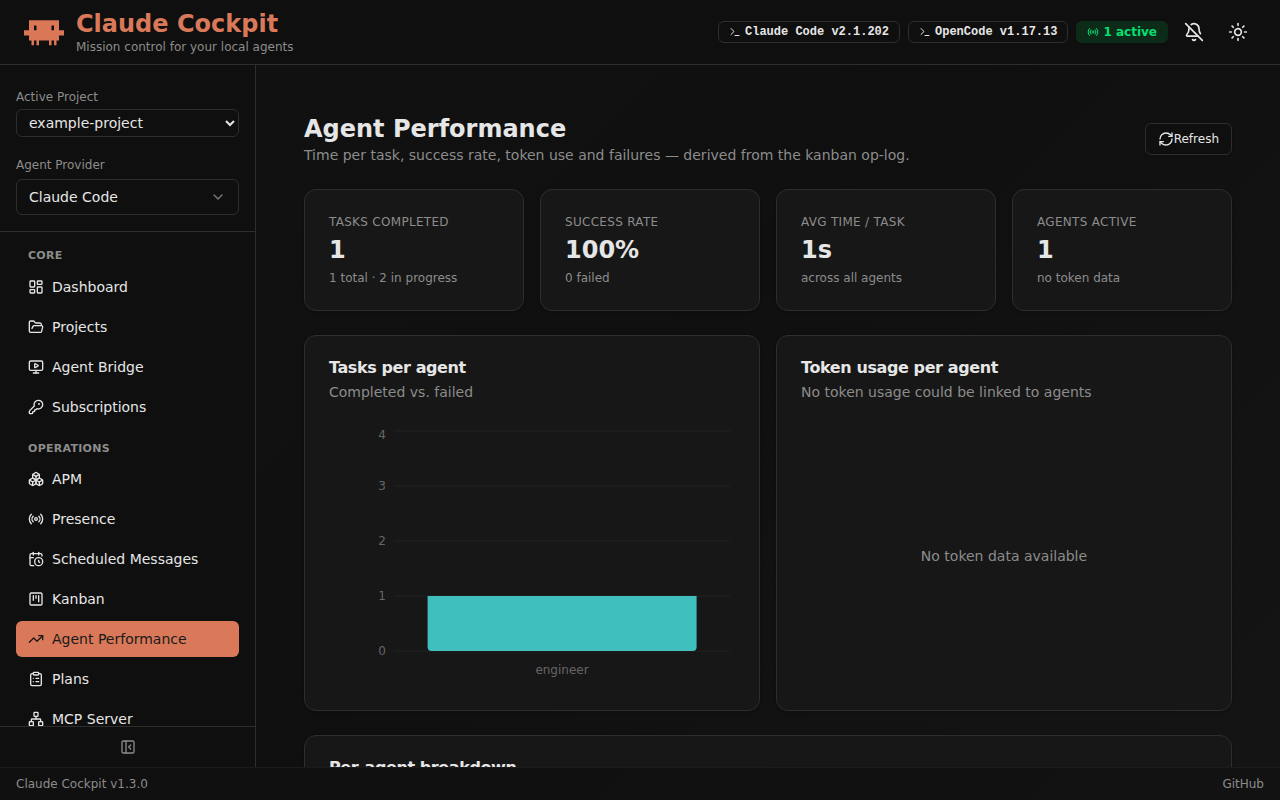
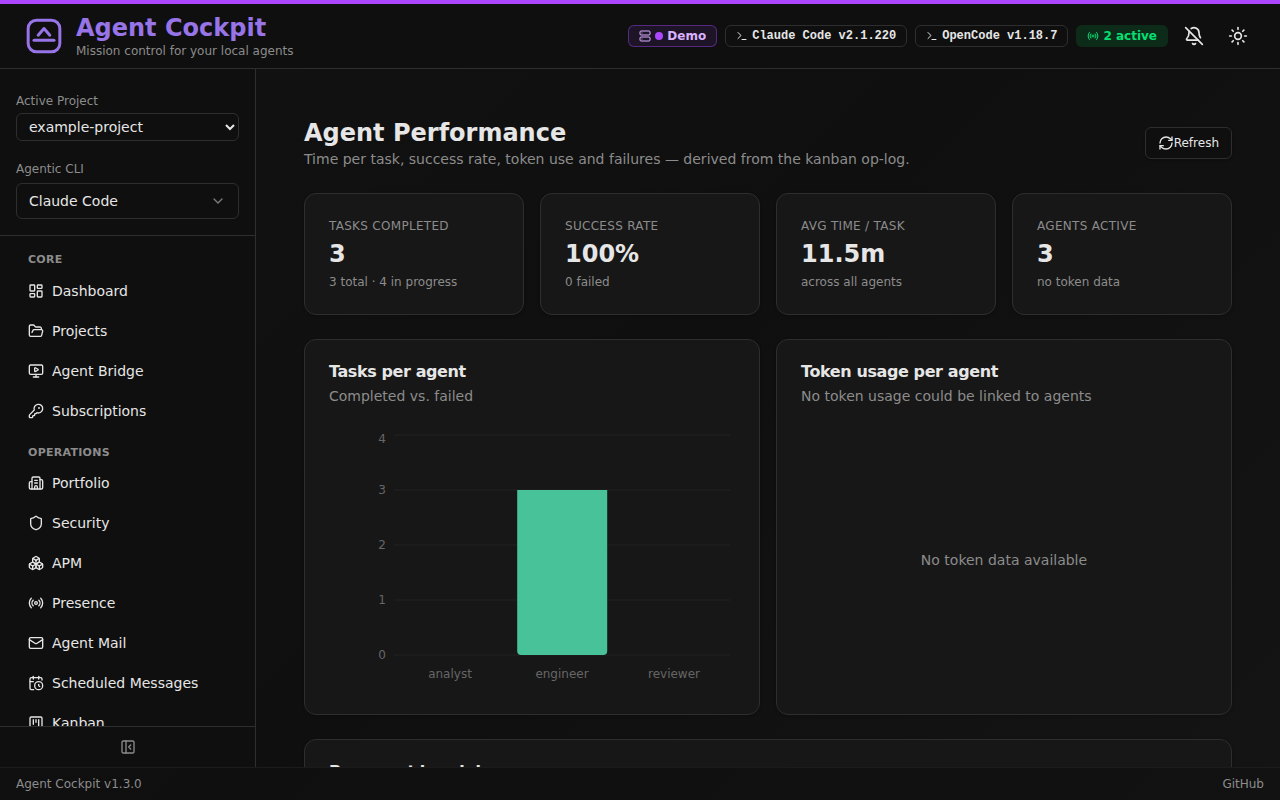
docs(readme): rewrite for current functionality and refresh all screenshots
The README still described the app as a claude-deck fork with scheduled
messages, and its feature list predated nine shipped pages (Portfolio,
Security Profile, Subscriptions, Agent Mail, Blueprints, APM, MCP Server,
Hosts, Updates) and three additional agent CLIs (OpenCode, Copilot CLI,
MiMoCode). The screenshots were 147 frontend commits old and every one of
them showed a stale sidebar.

- Lead with what the app actually is now: an agent work loop (kanban
  dispatch, multi-agent decomposition, Agent Mail) plus a control panel
  for the agent CLIs.
- Group the feature list the way the navigation does (running work /
  overview and control / per-CLI), covering every page that exists.
- Add a supported-CLI table sourced from the capability matrix in
  backend/app/services/agentic_cli/capabilities.py.
- Replace the stale 'What's New' section, and document the two-SQLite-
  store split and the project .claude/agents -> kanban column link.
- Recapture all 16 gallery screenshots plus both hero images (1280x800,
  current v1.3.0 UI) against an isolated instance with a throwaway HOME,
  a throwaway tmux server and sanitized demo data, matching the
  convention set by f2b2153. Drops codex-config.png and sandcastle.png,
  adds portfolio, agent-mail, security, blueprints and config.

diff --git a/README.md b/README.md
@@ -9,111 +9,142 @@
   <img alt="Agent Cockpit dashboard" src="cockpit-rebrand-light.png">
 </picture>
 
-A self-hosted web application for visualizing and managing local AI coding agents. Provides a unified interface for Claude Code configuration, Codex CLI configuration, MCP servers, plugins, slash commands, hooks, agents, permissions, usage tracking, session transcripts, Agent Bridge, and other local agent extensions.
+A self-hosted web application for running and managing local AI coding agents. Two things live in one app:
+
+1. **An agent work loop.** A kanban board where cards are dispatched to real agent sessions — the dispatcher claims a card, spawns an agent in its own git worktree, and the card moves across the board as the agent works, hands off, gets blocked, or ships. Larger cards can be split by an analyst agent into child cards with a dependency graph, and sessions can message each other through Agent Mail.
+2. **A control panel for the agent CLIs themselves.** Configuration, MCP servers, plugins, slash commands, hooks, agents, skills, permissions, transcripts, usage and backups for Claude Code, Codex CLI, OpenCode, GitHub Copilot CLI and MiMoCode — reading and writing the same files those CLIs use.
+
+Everything runs on your machine, against your real config files. No account, no cloud, no telemetry.
 
 ## Credits — Forked from claude-deck
 
-Agent Cockpit is a fork of [**claude-deck**](https://github.com/adrirubio/claude-deck) by Adrian Rubio-Punal and Juan A. Rubio, used under the MIT License. Their original copyright and license are retained in [`LICENSE`](./LICENSE). Agent Cockpit adds a scheduled-messages feature (timer/cron → tmux injection) on top of their work.
+Agent Cockpit is a fork of [**claude-deck**](https://github.com/adrirubio/claude-deck) by Adrian Rubio-Punal and Juan A. Rubio, used under the MIT License. Their original copyright and license are retained in [`LICENSE`](./LICENSE). claude-deck contributed the configuration, MCP, sessions, usage and Agent Bridge surfaces; Agent Cockpit adds the kanban dispatch loop, multi-agent decomposition, Agent Mail, scheduled messages, sandboxed runs, and the multi-CLI provider layer on top.
 
 ## Why This Exists
 
 Claude Code starts simple, then slowly sprawls across config files and directories: `~/.claude.json`, `~/.claude/settings.json`, `.mcp.json`, slash commands, agents, skills, project settings, transcripts, and usage data. That works fine at small scale, but once your setup gets serious it becomes hard to see the whole picture, change things confidently, or understand what is actually configured.
 
-Agent Cockpit gives you one local interface for that sprawl. It also has provider-aware Codex CLI support for tmux sessions, safe TOML configuration, feature flags, diagnostics, MCP/plugin inventory and supported CLI-backed mutations, and redacted export-only backups.
+Running *several* agents at once adds a second problem on top of that one: which session is working on what, which one is stuck waiting for a human, what has already shipped, and what is blocked on something else. Terminal multiplexers answer none of that.
+
+Agent Cockpit is one local interface for both — the configuration sprawl and the work in flight.
 
 ## Best For
 
-Agent Cockpit is best for people running multiple Claude Code or Codex CLI sessions, MCP servers, custom commands, hooks, agents, or tracking Claude Code usage across sessions.
+People running multiple concurrent agent sessions, or a serious Claude Code / Codex CLI setup: several MCP servers, custom commands, hooks, agents, skills, and usage worth keeping an eye on.
 
-If you only use Claude Code casually with mostly default config, Agent Cockpit may be overkill.
+If you use one agent casually with mostly default config, Agent Cockpit is overkill.
 
 ## Trust Model
 
 - **Local only** — no cloud
 - **No account** — nothing to sign up for
 - **No telemetry** — no usage tracking sent anywhere
-- **Works with your real files** — reads and writes existing Claude Code and Codex config files
+- **Works with your real files** — reads and writes existing agent configuration files
 
 > [!WARNING]
-> Agent Cockpit reads and writes your real local agent configuration files. Changes made in the UI affect the files Claude Code and Codex CLI actually use. Review changes carefully, and create a backup before major edits.
+> Agent Cockpit reads and writes your real local agent configuration files, and it can spawn agent sessions that write to your repositories. Changes made in the UI affect the files Claude Code and the other CLIs actually use. Review changes carefully, and create a backup before major edits.
 
 ## Features
 
-- **Dashboard** — Overview of local agent configuration with Claude Code context window visualizer
-- **Provider Switcher** — Move between Claude Code and Codex CLI surfaces without leaving the app
-- **Config Editor** — Browse, inspect, and edit Claude Code JSON settings or Codex TOML settings, including Codex profiles, runtime options, and feature flags
-- **MCP Servers** — Add, edit, test, and manage MCP server connections with OAuth support. Browse and install servers from the [MCP Registry](https://registry.modelcontextprotocol.io). View tools, resources, and prompts. Supports stdio, HTTP, and SSE transports
-- **Slash Commands** — Browse, create, and edit custom commands (user and project scope)
-- **Plugins** — Browse installed plugins with detail views and enable/disable toggles; Codex plugins support CLI-backed inventory, install, and remove where the installed Codex CLI exposes safe commands
-- **Hooks** — Configure automation hooks by event type (PreToolUse, PostToolUse, etc.)
-- **Permissions** — Visual allow/deny rule builder for tool access control
-- **Agents** — Create and manage custom agent configurations
-- **Skills** — Browse installed skills and discover new ones from [skills.sh](https://skills.sh)
-- **Memory** — View and edit Claude Code memory files
-- **Output Styles** — Configure response output formats
-- **Status Line** — Customize Claude Code status line display
-- **Agent Bridge** — Discover and monitor Claude Code and Codex CLI sessions running in tmux. Attach up to 4 terminals simultaneously in a 2x2 grid with independent read-only/interactive modes, fullscreen toggle, and per-pane controls. Spawn new sessions and manage provider-specific options directly from the UI
-- **Session Transcripts** — View conversation history with full message details and tool use
-- **Usage Tracking** — Monitor token usage, costs, and billing blocks with daily/monthly charts
-- **Plan History** — Browse and review Claude Code implementation plans
-- **Backup & Restore** — Create and manage Claude Code backups with selective restore, plus redacted export-only Codex backups
-- **Projects** — Discover and manage project directories
-- **Sandcastle** — Run AI coding agents in isolated sandboxes (Docker, Podman, Vercel) with [sandcastle](https://github.com/mattpocock/sandcastle). Supports parallel execution, kanban integration, scheduled messages, and real-time log streaming
-- **Kanban** — Dispatch work to Claude Code/Codex agents from a kanban board; cards move through columns as agents claim, work, and hand them off, with per-agent performance stats
-- **Scheduled Messages** — Schedule a message for future delivery into a running (or resumable) tmux session, including auto-resume when a session hits its rate limit
-- **Context** — Visualize a session's context window usage over time, including cache efficiency and content breakdown
-- **Presence** — See which tmux panes are active across your agent sessions at a glance
-- **Agent Performance (APM)** — Track per-agent throughput and reliability over time
+### Running work
 
-## What's New for the Next Release
+- **Kanban** — The board that drives the work loop. It has a fixed set of columns — `intake`, `Backlog`, `Impediment`, `Awaiting Subtasks`, `Done` and `To Resume` — plus one column per agent, generated from the project's `.claude/agents/`. Auto-dispatch is opt-in per project: the poller claims a `Backlog` card, moves it into the target agent's column, and spawns that agent in a fresh git worktree. A card carries its own comments, deliverables (PR / branch / commit / link / note), labels, priority, work type, dependencies on other cards, and per-card model, provider or transport overrides. A blocked agent posts an impediment with a concrete question and candidate answers for a human to pick from.
+- **Multi-agent decomposition** — A card that is too big for one session goes to an analyst agent, which splits it into child cards with an explicit dependency DAG and attaches the plan. Executor sessions only start once their dependencies are `Done`.
+- **Agent Mail** — A mailbox between sessions. Each repository gets a durable identity; sessions send structured context requests, handoffs, broadcasts and answers, and a session that is asleep in tmux can be woken to read its inbox. The UI shows participants, roles, charters, inbox load and every pending request.
+- **Agent Bridge** — Discover and observe agent sessions running in tmux, per CLI. Attach up to 4 terminals at once in a 2x2 grid, each independently read-only or interactive, with fullscreen, per-pane controls, and spawn / resume / fork / kill from the UI.
+- **Presence** — A live feed of what each session is doing right now, fed by the agent CLI's hooks: current tool, last narrative line, changed files, and which sessions are waiting on your input.
+- **Scheduled Messages** — Queue a message for future delivery into a running (or resumable) session, as a one-shot timer or a recurring cron expression, with a choice of permission mode and what to do when the session is missing or busy. Includes auto-resume when a session hits its rate limit.
+- **Sandcastle** — Run agents in isolated Docker or Podman containers via [sandcastle](https://github.com/mattpocock/sandcastle), with parallel runs, kanban integration and live log streaming.
+- **Hosts** — Register remote machines over SSH and run agent sessions on them instead of locally.
 
-Codex CLI support has moved from experimental plumbing to a usable provider surface:
+### Overview and control
 
-- Provider-aware Agent Bridge can discover, spawn, resume, fork, attach to, and kill Codex tmux sessions.
-- The Codex config editor now handles safe TOML settings, profiles, runtime controls, and feature flags from `codex features list`.
-- Codex settings include dropdowns for known enum values and help tooltips for settings and feature flags where official descriptions are available.
-- Codex MCP and plugin inventory are visible, with supported CLI-backed add/remove or install/remove actions.
-- Codex exports are redacted and export-only by design.
-- Project discovery is now easier from the UI, including directory browsing when adding projects.
+- **Dashboard** — Which agent CLIs are installed on this machine and what each one actually supports, as a per-capability matrix (read-only vs read/write), plus counts for projects, MCP servers, commands, plugins, hooks and permissions.
+- **Portfolio** — Kanban totals across every tracked project at once: backlog, in progress, impediments, cards finished in the last 24h, dispatch on/off, and last activity.
+- **Agent Performance** — Time per task, success rate, tasks completed per agent and common failure reasons, derived from the kanban operation log.
+- **Security Profile** — Per project: risk class, default transport (worktree or sandbox), whether permission prompts may be skipped, network egress policy with an allowlist, and resource quotas applied to sandboxed runs.
+- **Subscriptions** — Credentials and quota for launching sessions against alternate providers instead of the default vendor, with per-provider usage.
+- **Projects** — Discover, add and switch projects, including a directory browser; the active project scopes most other pages.
+- **Blueprints** — Version-pinned recipes that seed a new project's `.claude/` folder (settings, skills, agents, `CLAUDE.md`) so a new repository starts from a known-good baseline.
+- **MCP Server** — Agent Cockpit's own MCP endpoint, so agents can read and drive the board, sessions and scheduled messages as tools. Includes the client config snippet and token management.
+- **APM** — Per-project agent dependency management via an `apm.yml` manifest.
+- **Updates** — One-click self-update with preflight checks.
+- **Backup & Restore** — Create and manage backups with selective restore. Codex exports are redacted and export-only by design.
 
-Codex support is explicit about provider boundaries: usage/context parity and session transcript browsing are not supported for Codex yet; history and model-cache diagnostics avoid prompt text and raw cache payloads; Codex automatic restore is refused because exports intentionally exclude auth, history, cache, and local state.
+### Per-CLI configuration
+
+Which of these appear depends on the CLI selected in the sidebar and on what that CLI actually supports — the capability matrix drives the navigation, so unsupported surfaces are hidden rather than shown broken.
+
+- **Config** — Claude Code JSON settings across all five scopes (user, user-local, project, project-local, managed) with a form editor, a scope resolver that shows which file wins, and a raw viewer. For Codex: safe TOML settings, profiles, runtime options, and feature flags read from `codex features list`, with dropdowns for known enum values and tooltips where official descriptions exist.
+- **MCP Servers** — Add, edit, test and manage MCP connections over stdio, HTTP and SSE, with OAuth support, plus browse and install from the [MCP Registry](https://registry.modelcontextprotocol.io). Inspect the tools, resources and prompts a server exposes.
+- **Slash Commands** — Browse, create and edit custom commands at user and project scope.
+- **Plugins** — Browse installed plugins with detail views and enable/disable toggles. Codex plugins support CLI-backed inventory, install and remove where the installed Codex CLI exposes safe commands.
+- **Hooks** — Configure automation hooks per event type (PreToolUse, PostToolUse, Stop, Notification, SessionStart, …).
+- **Permissions / Trust** — Visual allow / ask / deny rule builder for tool access, plus the default permission mode.
+- **Agents** — Create and manage subagent definitions, including model and tool restrictions.
+- **Skills** — Browse installed skills and discover new ones from [skills.sh](https://skills.sh), with usage stats.
+- **Memory** — View and edit `CLAUDE.md` memory files at user and project scope.
+- **Output Styles** and **Status Line** — Configure response formatting and the CLI status line.
+- **Session Transcripts** — Browse conversation history per project with full message detail, tool calls and results.
+- **Usage Tracking** — Token usage, cost and billing blocks with daily, monthly, per-session and per-block views, plus JSON/CSV export.
+- **Context** — Context window usage per active session, including cache efficiency and what is filling the window.
+- **Plans** — Browse and review the implementation plans an agent has written.
+
+### Supported agent CLIs
+
+| CLI | Status |
+|-----|--------|
+| Claude Code | Full surface — config, sessions, MCP, plugins, permissions, commands, hooks, agents, skills, memory, output styles, status line, usage, context, backup |
+| Codex CLI | Config (TOML, profiles, feature flags), sessions, MCP and plugin inventory, redacted export-only backup. No transcript browsing or usage/context parity |
+| OpenCode | Config, sessions, MCP, plugins, agents, skills, memory, commands, usage |
+| GitHub Copilot CLI | Session discovery and spawning |
+| MiMoCode | Config, skills, memory |
+
+Codex support is explicit about its boundaries: history and model-cache diagnostics avoid prompt text and raw cache payloads, and automatic restore is refused because exports intentionally exclude auth, history, cache and local state.
 
 ## Screenshots
 
-| Dashboard | MCP Servers |
-|-----------|-------------|
-| ![Dashboard](screenshots/dashboard.png) | ![MCP Servers](screenshots/mcp-servers.png) |
-| High-level overview of your Claude Code setup | Manage MCP connections, status, and configuration |
+All screenshots are taken against a throwaway instance seeded with demo data (`example-project`, `demo-api`), not a real workspace.
 
-| Usage Tracking | Session Transcripts |
-|----------------|---------------------|
-| ![Usage Tracking](screenshots/usage-tracking.png) | ![Session Transcripts](screenshots/sessions.png) |
-| Cost visibility, charts, and billing blocks | Browse conversation history and tool usage details |
-
-| Agent Bridge | Skills |
+| Dashboard | Kanban |
 |-----------|--------|
-| ![Agent Bridge](screenshots/cc-bridge.png) | ![Skills](screenshots/skills.png) |
-| Monitor and interact with Claude Code and Codex tmux sessions | Browse installed skills and discover new ones |
+| ![Dashboard](screenshots/dashboard.png) | ![Kanban](screenshots/kanban.png) |
+| Installed CLIs and their capability matrix, plus configuration counts | Cards moving from intake through per-agent columns to Done, with dispatch controls |
 
-| Kanban | Scheduled Messages |
-|--------|---------------------|
-| ![Kanban](screenshots/kanban.png) | ![Scheduled Messages](screenshots/scheduled-messages.png) |
-| Dispatch cards to agents, track progress across Backlog/Impediment/Done | Schedule messages to be injected into Claude Code sessions on a timer or cron |
+| Portfolio | Agent Performance |
+|-----------|-------------------|
+| ![Portfolio](screenshots/portfolio.png) | ![Agent Performance](screenshots/agent-performance.png) |
+| Board totals across every tracked project at a glance | Throughput, success rate and time per task per agent |
 
-| Sandcastle | Codex Config |
-|------------|--------------|
-| ![Sandcastle](screenshots/sandcastle.png) | ![Codex Config](screenshots/codex-config.png) |
-| Run coding agents in isolated Docker/Podman containers, with live container status | View and edit Codex CLI's TOML configuration |
+| Agent Bridge | Presence |
+|--------------|----------|
+| ![Agent Bridge](screenshots/cc-bridge.png) | ![Presence](screenshots/presence.png) |
+| Attach to a live tmux session, read-only or interactive | What each session is doing right now, and which ones are waiting on you |
 
-| Presence | Context |
-|----------|---------|
-| ![Presence](screenshots/presence.png) | ![Context](screenshots/context.png) |
-| Real-time monitoring of Claude Code session activity | Visualize context window usage and cache efficiency over a session |
+| Agent Mail | Scheduled Messages |
+|------------|--------------------|
+| ![Agent Mail](screenshots/agent-mail.png) | ![Scheduled Messages](screenshots/scheduled-messages.png) |
+| Context requests and handoffs between sessions | Timer and cron messages queued for delivery into a session |
 
-| Agent Performance |
-|--------------------|
-| ![Agent Performance](screenshots/agent-performance.png) |
-| Time per task, success rate, and token use per agent, derived from the kanban op-log |
+| Security Profile | Blueprints |
+|------------------|------------|
+| ![Security Profile](screenshots/security.png) | ![Blueprints](screenshots/blueprints.png) |
+| Risk class, transport, egress policy and quotas per project | Version-pinned recipes that seed a new project's `.claude/` |
+
+| Usage Tracking | Context |
+|----------------|---------|
+| ![Usage Tracking](screenshots/usage-tracking.png) | ![Context](screenshots/context.png) |
+| Cost over time, per-model and per-session breakdowns | Context window pressure across active sessions |
+
+| Session Transcripts | MCP Servers |
+|---------------------|-------------|
+| ![Session Transcripts](screenshots/sessions.png) | ![MCP Servers](screenshots/mcp-servers.png) |
+| Conversation history with full tool-call detail | stdio, HTTP and SSE connections with per-server testing |
+
+| Configuration | Skills |
+|---------------|--------|
+| ![Configuration](screenshots/config.png) | ![Skills](screenshots/skills.png) |
+| Settings across all five scopes, with a resolver and raw viewer | Installed skills, plus discovery from skills.sh |
 
 ## Tech Stack
 
@@ -123,8 +154,12 @@ Codex support is explicit about provider boundaries: usage/context parity and se
 | Frontend | React 19 + TypeScript 6 + Vite 7 |
 | UI Components | shadcn/ui + Tailwind CSS |
 | Charts | Recharts (via shadcn/ui) |
+| Terminals | xterm.js over a WebSocket pty relay to tmux |
+| Scheduling | APScheduler (dispatch poller, scheduled messages, stale detection) |
 | Database | SQLite (async via SQLAlchemy + aiosqlite) |
 | Containerization | Docker + Docker Compose |
+
+Two SQLite stores are used deliberately: `backend/claude_registry.db` holds device-local state (MCP servers, commands, permissions, plugin state), and `~/.claude-registry/kanban.db` holds the kanban board so it stays portable and machine-scoped.
 
 ## Quick Start with Docker
 
@@ -144,7 +179,7 @@ This builds and starts Agent Cockpit at http://localhost:8000, mounting your `~/
 
 ## Manual Installation
 
-**Prerequisites**: Python 3.11+, Node.js 18+
+**Prerequisites**: Python 3.11+, Node.js 18+. tmux is required for Agent Bridge, Presence, scheduled messages and kanban dispatch.
 
 ```bash
 git clone git@github.com:guillaumevandevelde/claude-cockpit.git
@@ -225,6 +260,7 @@ Agent Cockpit reads and writes these Claude Code configuration files:
 | `~/.claude/projects/` | User | Session transcripts & usage data |
 | `.claude/settings.json` | Project | Project settings |
 | `.claude/commands/` | Project | Project slash commands |
+| `.claude/agents/` | Project | Project agents — these become the kanban board's agent columns |
 | `.mcp.json` | Project | Project MCP servers |
 | `CLAUDE.md` | Project | Project instructions |
 
@@ -237,6 +273,8 @@ Codex CLI support uses `$CODEX_HOME`, defaulting to `~/.codex`:
 | `~/.codex/rules/` | User | Codex rule files |
 | `~/.codex/auth.json` | User | Auth status only; raw contents are never returned |
 
+Agent Cockpit's own state lives in `~/.claude-registry/` (kanban board, backups, attachments) and in `backend/claude_registry.db`.
+
 ## Contributing
 
 See [CONTRIBUTING.md](CONTRIBUTING.md) for setup, style, and PR guidelines.
@@ -245,7 +283,7 @@ API documentation is available at http://localhost:8000/docs when running the de
 
 ## Feedback
 
-If you use Claude Code heavily, issues and feature requests are especially welcome.
+If you run agents heavily, issues and feature requests are especially welcome.
 
 ## Built By
 
